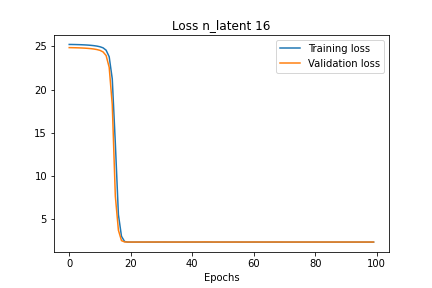
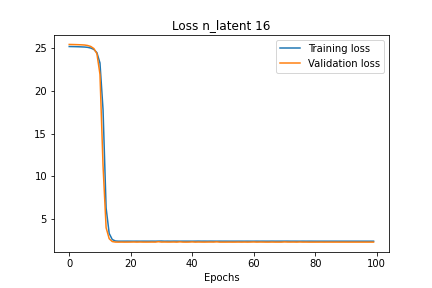
git push

diff --git a/spender/saved_model/inspect.py b/spender/saved_model/inspect.py
@@ -65,7 +65,7 @@ for j in range(len(percent)):
 
 
 
-"""
+
 for j in np.arange(1,10): #percentiles go from 10% to 90%
     for i in range(test_set): 
         plt.plot(percent_arr[i,j-1],percent_pred_arr[i,j-1],'.')#,'k.')
@@ -87,4 +87,4 @@ for j in range(n_latent):
     plt.ylabel('N')
     plt.show()
 
-
+"""

diff --git a/spender/generate_latent_2.py b/spender/generate_latent_2.py
@@ -80,7 +80,7 @@ class Dataset(torch.utils.data.Dataset):
 
 
 # Parameters
-batch_size=256
+batch_size=32
 max_epochs=100
 lr=5e-4
 params = {'batch_size': batch_size,
